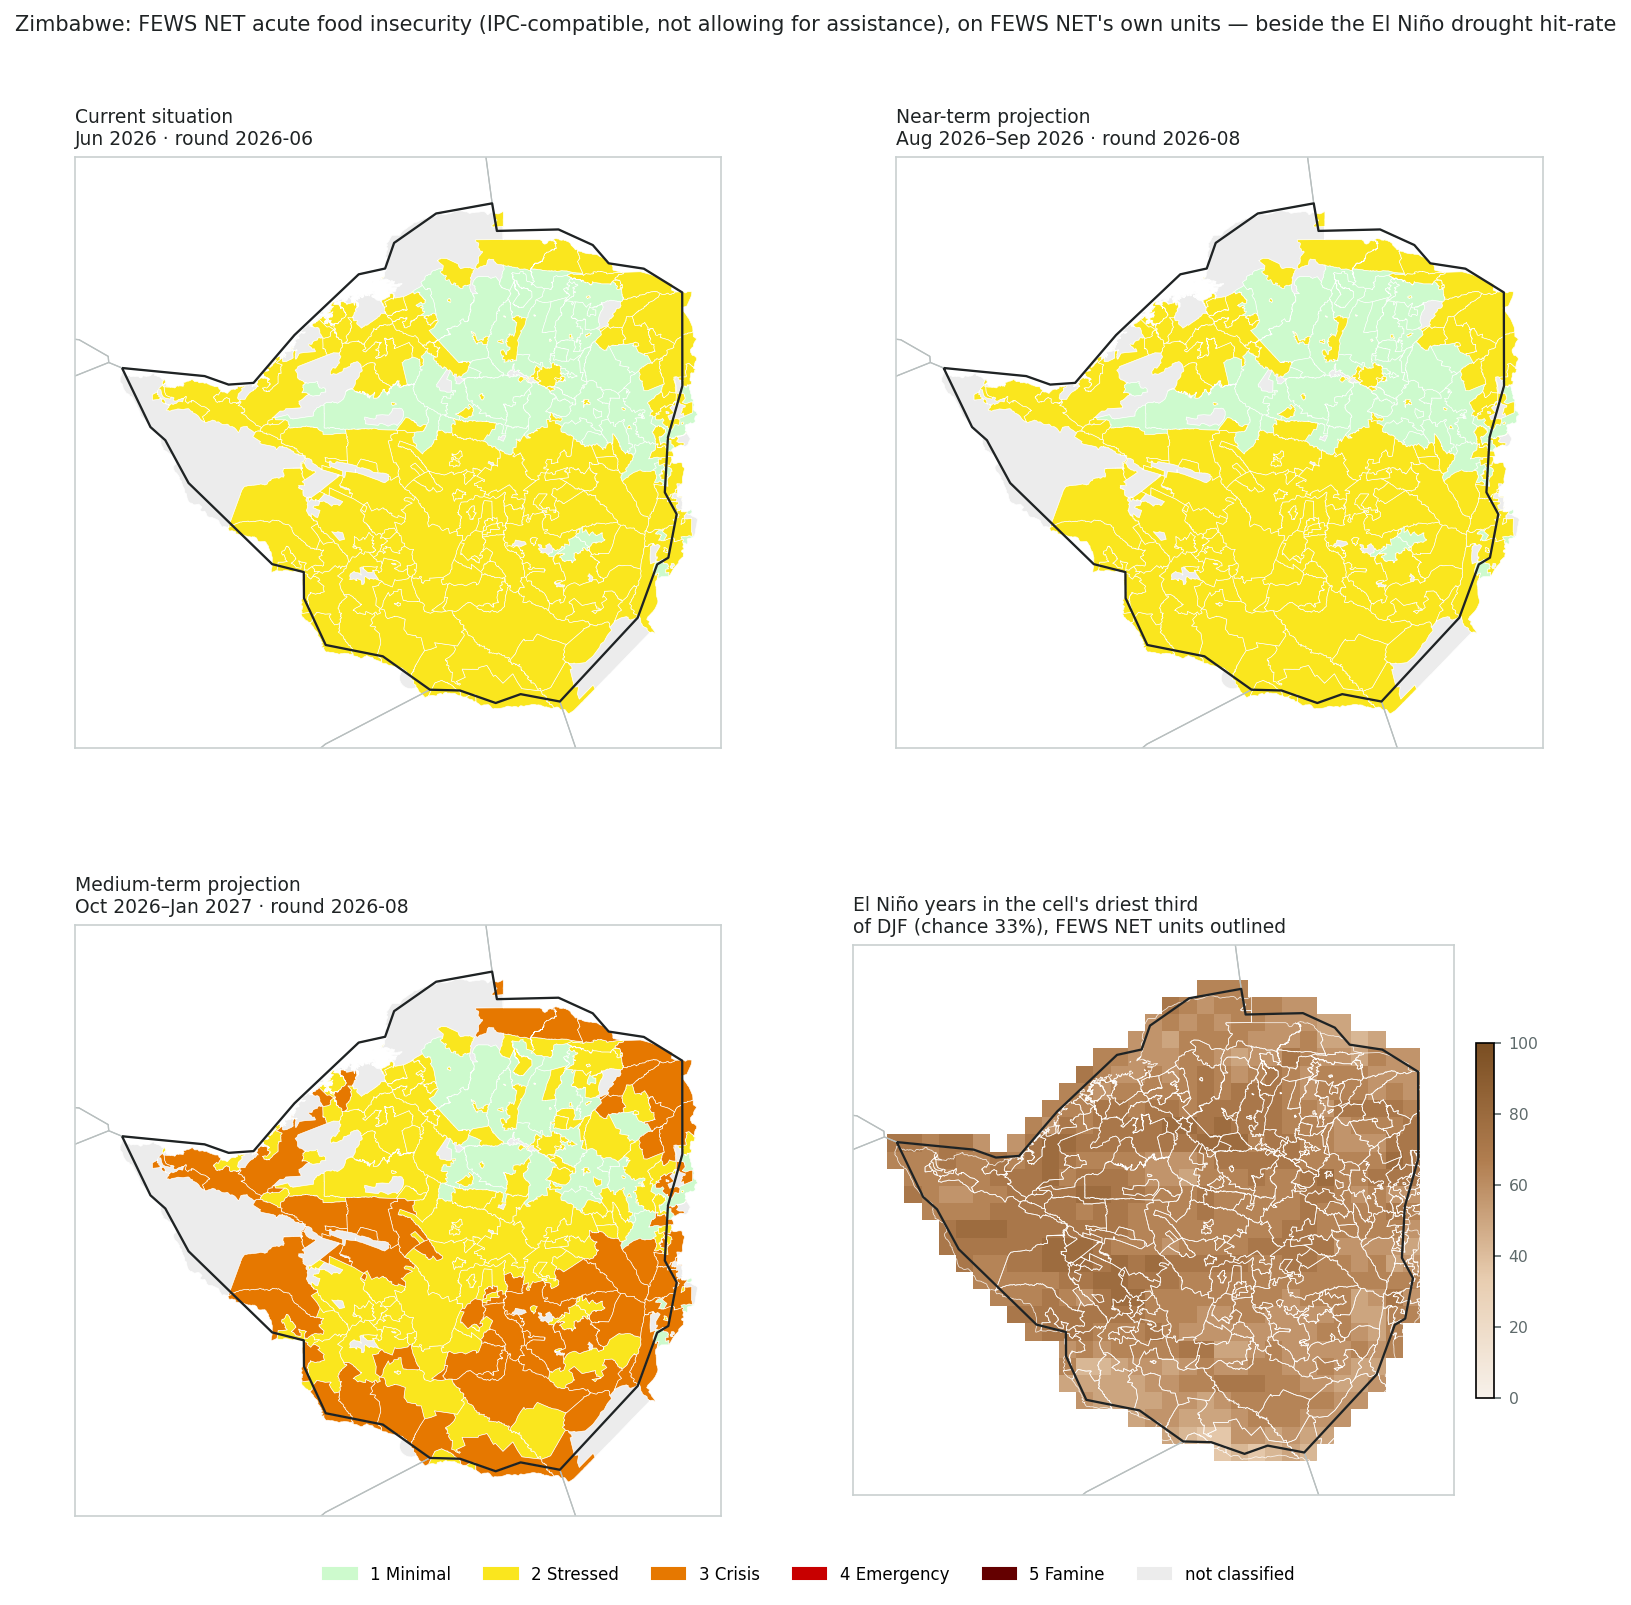
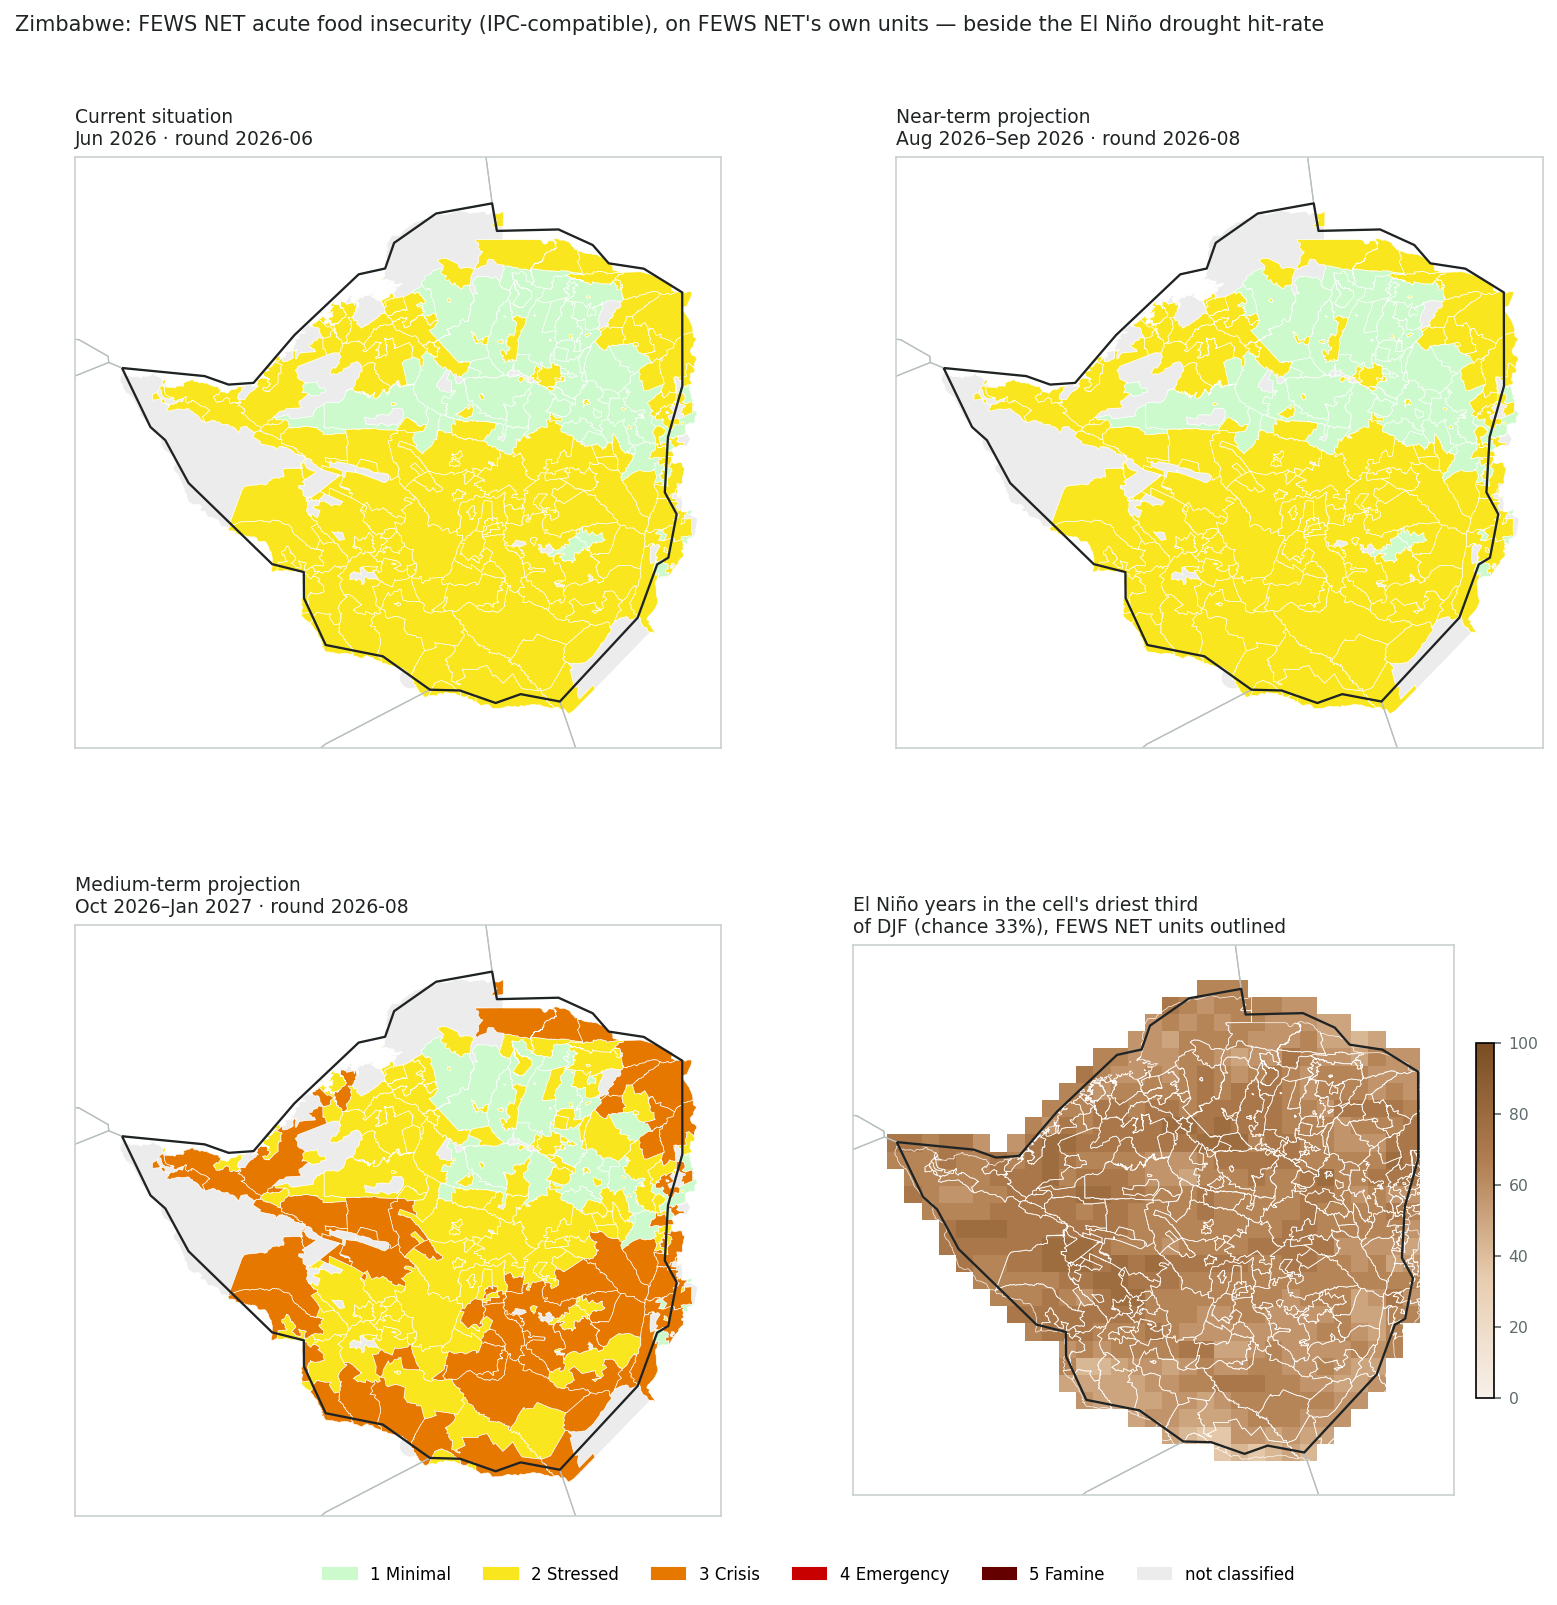
FEWS NET: count every unit at its mapped phase; the assistance flag is not a second series
FDW's is_allowing_for_assistance marks the units FEWS NET draws with "!"
(phase held down by assistance) - one row per unit x scenario x round, not a
parallel "without assistance" series. Filtering assistance == 0 silently
dropped those units (e.g. Oct 2016 CS 167 of 204; Feb 2020 CS 98 of 203),
inflating Phase 3+ shares in 2012-2020. Verified against the October 2016
package shapefiles from FDW (HA0/HA1/HA2 flags; ML2 Feb-Apr 2017 has 12 units
at Phase 4). Only the observed bars in the season figure change.

diff --git a/docs/enso/zwe/index.html b/docs/enso/zwe/index.html
@@ -104,7 +104,7 @@ a{color:var(--b6)}
 <tr><td>2025/26</td><td class="num" style="background:rgba(94,159,210,0.18)">+0.47 · 32 of 45</td><td><span class="chip" style="background:#2E7DBD;color:#fff;margin:0">La Niña</span> <span class="small">-0.51</span></td><td><span class=small>—</span></td><td class="num" style="background:rgba(230,120,0,0.20)">21% / 0% / 0%<br><span class="small">Oct 2025–Jan 2026 · round 2025-10 (ML1, issued in October) · 203 units</span></td></tr>
 <tr><td>2024/25</td><td class="num" style="background:rgba(94,159,210,0.19)">+0.54 · 33 of 45</td><td><span class="chip" style="background:#2E7DBD;color:#fff;margin:0">La Niña</span> <span class="small">-0.59</span></td><td><span class=small>—</span></td><td class="num" style="background:rgba(230,120,0,0.63)">100% / 0% / 0%<br><span class="small">Oct 2024–Jan 2025 · round 2024-09 (ML2) · 203 units</span></td></tr>
 <tr><td>2023/24</td><td class="num" style="background:rgba(122,78,34,0.44)">−1.00 · 9 of 45</td><td><span class="chip" style="background:#D1495B;color:#fff;margin:0">El Niño</span> <span class="small">+1.79</span></td><td style="background:rgba(177,126,80,0.26)">US$ 8.0 M · Dec 2023 (Rapid, 5.0 M, +0 mo); Jun 2024 (Rapid, 3.0 M, +6 mo)</td><td class="num" style="background:rgba(230,120,0,0.17)">17% / 0% / 0%<br><span class="small">Oct 2023–Jan 2024 · round 2023-09 (ML2) · 203 units</span></td></tr>
-<tr><td>2022/23</td><td class="num" style="background:rgba(94,159,210,0.23)">+0.85 · 36 of 45</td><td><span class="chip" style="background:#2E7DBD;color:#fff;margin:0">La Niña</span> <span class="small">-0.68</span></td><td><span class=small>—</span></td><td class="num" style="background:rgba(230,120,0,0.32)">44% / 0% / 0%<br><span class="small">Oct 2022–Jan 2023 · round 2022-09 (ML2) · 189 units</span></td></tr>
+<tr><td>2022/23</td><td class="num" style="background:rgba(94,159,210,0.23)">+0.85 · 36 of 45</td><td><span class="chip" style="background:#2E7DBD;color:#fff;margin:0">La Niña</span> <span class="small">-0.68</span></td><td><span class=small>—</span></td><td class="num" style="background:rgba(230,120,0,0.30)">41% / 0% / 0%<br><span class="small">Oct 2022–Jan 2023 · round 2022-09 (ML2) · 203 units</span></td></tr>
 <tr><td>2021/22</td><td class="num" style="background:rgba(122,78,34,0.23)">−0.42 · 17 of 45</td><td><span class="chip" style="background:#2E7DBD;color:#fff;margin:0">La Niña</span> <span class="small">-0.96</span></td><td><span class=small>—</span></td><td class="num" style="background:rgba(230,120,0,0.21)">23% / 0% / 0%<br><span class="small">Oct 2021–Jan 2022 · round 2021-09 (ML2) · 203 units</span></td></tr>
 <tr><td>2020/21</td><td class="num" style="background:rgba(94,159,210,0.35)">+2.62 · 45 of 45</td><td><span class="chip" style="background:#2E7DBD;color:#fff;margin:0">La Niña</span> <span class="small">-1.05</span></td><td><span class=small>—</span></td><td class="num" style="background:rgba(230,120,0,0.40)">58% / 0% / 0%<br><span class="small">Oct 2020–Jan 2021 · round 2020-09 (ML2) · 203 units</span></td></tr>
 <tr><td>2019/20</td><td class="num" style="background:rgba(122,78,34,0.15)">−0.25 · 20 of 45</td><td><span class="chip" style="background:#9AA3AD;color:#fff;margin:0">Neutral</span> <span class="small">+0.50</span></td><td><span class=small>—</span></td><td class="num" style="background:rgba(230,120,0,0.53)">81% / 0% / 0%<br><span class="small">Oct 2019–Jan 2020 · round 2019-06 (ML2) · 203 units</span></td></tr>
@@ -113,8 +113,8 @@ a{color:var(--b6)}
 <tr><td>2016/17</td><td class="num" style="background:rgba(94,159,210,0.34)">+2.01 · 44 of 45</td><td><span class="chip" style="background:#9AA3AD;color:#fff;margin:0">Neutral</span> <span class="small">-0.34</span></td><td><span class=small>—</span></td><td class="num" style="background:rgba(230,120,0,0.41)">60% / 0% / 0%<br><span class="small">Oct 2016–Dec 2016 · round 2016-06 (ML2) · 203 units</span></td></tr>
 <tr><td>2015/16</td><td class="num" style="background:rgba(122,78,34,0.63)">−1.36 · 2 of 45</td><td><span class="chip" style="background:#D1495B;color:#fff;margin:0">El Niño</span> <span class="small">+2.50</span></td><td><span class=small>—</span></td><td class="num" style="background:rgba(230,120,0,0.22)">26% / 0% / 0%<br><span class="small">Oct 2015–Dec 2015 · round 2015-07 (ML2) · 203 units</span></td></tr>
 <tr><td>2014/15</td><td class="num" style="background:rgba(94,159,210,0.12)">+0.34 · 28 of 45</td><td><span class="chip" style="background:#D1495B;color:#fff;margin:0">El Niño</span> <span class="small">+0.55</span></td><td style="background:rgba(177,126,80,0.26)">US$ 8.1 M · Oct 2015 (Rapid, 8.1 M, +10 mo)</td><td class="num">0% / 0% / 0%<br><span class="small">Oct 2014–Dec 2014 · round 2014-07 (ML2) · 203 units</span></td></tr>
-<tr><td>2013/14</td><td class="num" style="background:rgba(94,159,210,0.24)">+0.88 · 37 of 45</td><td><span class="chip" style="background:#9AA3AD;color:#fff;margin:0">Neutral</span> <span class="small">-0.43</span></td><td><span class=small>—</span></td><td class="num">0% / 0% / 0%<br><span class="small">Oct 2013–Dec 2013 · round 2013-07 (ML2) · 108 units</span></td></tr>
-<tr><td>2012/13</td><td class="num" style="background:rgba(94,159,210,0.20)">+0.54 · 34 of 45</td><td><span class="chip" style="background:#9AA3AD;color:#fff;margin:0">Neutral</span> <span class="small">-0.43</span></td><td style="background:rgba(177,126,80,0.12)">US$ 2.0 M · Nov 2013 (Rapid, 2.0 M, +11 mo)</td><td class="num">0% / 0% / 0%<br><span class="small">Oct 2012–Dec 2012 · round 2012-07 (ML2) · 68 units</span></td></tr>
+<tr><td>2013/14</td><td class="num" style="background:rgba(94,159,210,0.24)">+0.88 · 37 of 45</td><td><span class="chip" style="background:#9AA3AD;color:#fff;margin:0">Neutral</span> <span class="small">-0.43</span></td><td><span class=small>—</span></td><td class="num">0% / 0% / 0%<br><span class="small">Oct 2013–Dec 2013 · round 2013-07 (ML2) · 203 units</span></td></tr>
+<tr><td>2012/13</td><td class="num" style="background:rgba(94,159,210,0.20)">+0.54 · 34 of 45</td><td><span class="chip" style="background:#9AA3AD;color:#fff;margin:0">Neutral</span> <span class="small">-0.43</span></td><td style="background:rgba(177,126,80,0.12)">US$ 2.0 M · Nov 2013 (Rapid, 2.0 M, +11 mo)</td><td class="num">0% / 0% / 0%<br><span class="small">Oct 2012–Dec 2012 · round 2012-07 (ML2) · 85 units</span></td></tr>
 <tr><td>2011/12</td><td class="num" style="background:rgba(122,78,34,0.17)">−0.35 · 19 of 45</td><td><span class="chip" style="background:#2E7DBD;color:#fff;margin:0">La Niña</span> <span class="small">-0.87</span></td><td style="background:rgba(177,126,80,0.12)">US$ 2.0 M · Nov 2012 (Rapid, 2.0 M, +11 mo)</td><td class="num">0% / 0% / 0%<br><span class="small">Oct 2011–Dec 2011 · round 2011-07 (ML2) · 85 units</span></td></tr>
 <tr><td>2010/11</td><td class="num" style="background:rgba(94,159,210,0.06)">+0.08 · 23 of 45</td><td><span class="chip" style="background:#2E7DBD;color:#fff;margin:0">La Niña</span> <span class="small">-1.42</span></td><td><span class=small>—</span></td><td class="num"><span class=small>—</span></td></tr>
 <tr><td>2009/10</td><td class="num" style="background:rgba(122,78,34,0.12)">−0.18 · 21 of 45</td><td><span class="chip" style="background:#D1495B;color:#fff;margin:0">El Niño</span> <span class="small">+1.50</span></td><td><span class=small>—</span></td><td class="num"><span class=small>—</span></td></tr>

diff --git a/enso_deep_dive.py b/enso_deep_dive.py
@@ -654,9 +654,9 @@ def fig_skill_issued(c: Country, grid: Grid, zones: dict[str, np.ndarray], skill
 # Food security context: FEWS NET IPC-compatible classification (ds-fewsnet-mirror)
 # --------------------------------------------------------------------------- #
 # Classification + unit registry from the mirror's public site JSON (regenerated daily from the
-# team's dev DB); unit geometry from the dev blob. Rules from the mirror's README: published
-# map = assistance false; phase null = not classified (never Phase 1); drop the admin0 FAOB
-# series; key every row on both the collection round and the projection window.
+# team's dev DB); unit geometry from the dev blob. Rules: phase null = not classified (never
+# Phase 1); drop the admin0 FAOB series; key every row on both the collection round and the
+# projection window; keep every unit regardless of the assistance ("!") flag.
 FEWS_SITE = "https://ocha-dap.github.io/ds-fewsnet-mirror/data"
 FEWS_BLOB = "ds-fewsnet-mirror/processed/units/{iso3}.geojson"
 IPC_COLOURS = {1: "#CDFACD", 2: "#FAE61E", 3: "#E67800", 4: "#C80000", 5: "#640000"}
@@ -698,7 +698,11 @@ def load_fews(iso3: str) -> dict | None:
     rows = pd.DataFrame([dict(zip(cols, r)) for r in cls["rows"]])
     rows["fnid"] = rows.u.map(lambda i: U[i][0]); rows["unit_type"] = rows.u.map(lambda i: U[i][2])
     rows["doc"] = rows.doc.map(lambda i: docs[i]); rows["status"] = rows.st.map(lambda i: st[i])
-    rows = rows[(rows.assistance == 0) & (rows.unit_type != "admin0") & (rows.status == "Collected") & rows.phase.notna()]
+    # One row per unit × scenario × round. `assistance` (FDW is_allowing_for_assistance) marks the "!"
+    # units whose mapped phase is held down by humanitarian assistance — it is a flag on the published
+    # phase, not a second series — so it is NOT filtered on. (Checked against the October 2016 package
+    # shapefiles: CS 204 units incl. 37 with HA0 = True; ML2 shows 12 units at Phase 4.)
+    rows = rows[(rows.unit_type != "admin0") & (rows.status == "Collected") & rows.phase.notna()]
     latest = rows.reporting_date.max()
     picks = {}
     cs_rounds = rows[rows.scenario == "CS"].reporting_date
@@ -797,7 +801,7 @@ def fig_fews_maps(c: Country, fews: dict, hit: np.ndarray | None, analysable: np
         cb = fig.colorbar(m, ax=ax, shrink=0.6, pad=0.03); cb.ax.tick_params(labelsize=7.5, colors=C_MUTED)
     fig.legend(handles=[Patch(color=IPC_COLOURS[k], label=IPC_LABELS[k]) for k in range(1, 6)] + [Patch(color="#ececec", label="not classified")],
                frameon=False, fontsize=8, loc="lower center", ncol=6, bbox_to_anchor=(0.5, 0.0))
-    fig.suptitle(f"{name}: FEWS NET acute food insecurity (IPC-compatible, not allowing for assistance), on FEWS NET's own units"
+    fig.suptitle(f"{name}: FEWS NET acute food insecurity (IPC-compatible), on FEWS NET's own units"
                  + (" — beside the El Niño drought hit-rate" if hit is not None else ""),
                  fontsize=10, color=C_TEXT, x=0.01, ha="left", y=0.995, va="top")
     fig.savefig(out, bbox_inches="tight"); plt.close(fig)
@@ -1755,8 +1759,8 @@ def render_fews(spec: dict, a: dict, head: str, title: str | None = None) -> str
     out = [f'<h2>{title or "Food security context: FEWS NET"}</h2>']
     out.append("" if not spec.get("fews_intro", True) else '<p>FEWS NET\'s IPC-compatible acute food insecurity classification, from the team\'s daily mirror of the '
                'FEWS NET Data Warehouse (<a href="https://ocha-dap.github.io/ds-fewsnet-mirror/">ds-fewsnet-mirror</a>), drawn '
-               'on FEWS NET\'s own livelihood-zone × district units. This is the published map — the “not allowing for '
-               'assistance” series; grey means FEWS NET did not classify the unit, which is not Phase 1. FEWS NET classifies '
+               'on FEWS NET\'s own livelihood-zone × district units. This is the published map (units FEWS NET marks “!”, where '
+               'assistance holds the phase down, are counted at their mapped phase); grey means FEWS NET did not classify the unit, which is not Phase 1. FEWS NET classifies '
                'areas, not populations, and publishes no population-in-phase figures, so the maps are shown at the level FEWS NET '
                'reports them and are not aggregated here. FEWS NET\'s analysis is IPC-compatible but independent of the IPC/CH '
                'consensus.</p>')
